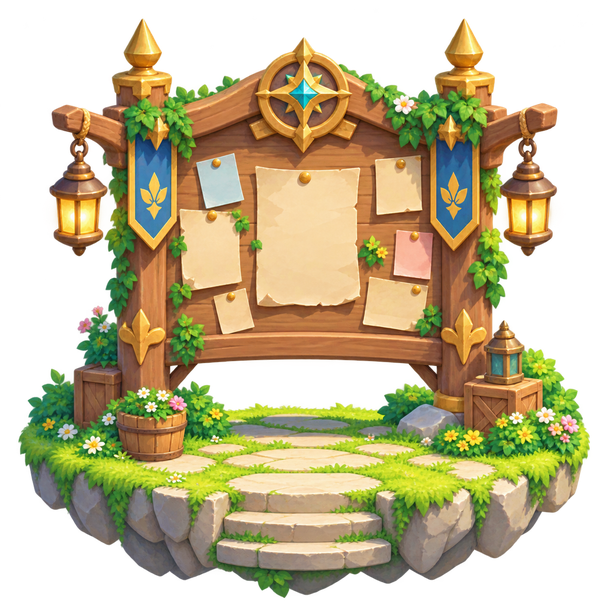
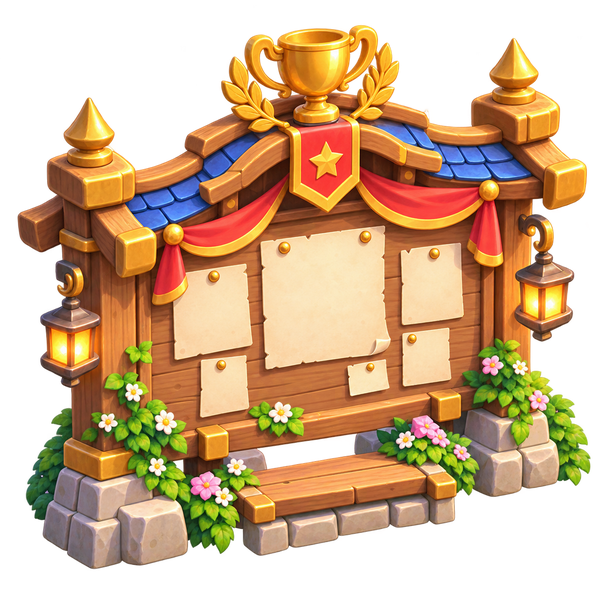
feat(lobby): GPT town assets x5 + arena/board/flag/bridge/sign/sky/cloud/tiles/cliff/waterfall/base
Claude-Session: https://claude.ai/code/session_01NXuBE3U4UAebXMPco3J5UQ

diff --git a/app/islands/lobby/LobbyWorld.tsx b/app/islands/lobby/LobbyWorld.tsx
@@ -19,6 +19,7 @@ const LOBBY_IMG = {
     grass: "/world/lobby_tile_grass.png", cliff: "/world/lobby_cliff_side.png", sky: "/world/lobby_sky.jpg",
     arena: "/world/lobby_central_arena.png", board: "/world/lobby_notice_board.png", bridge: "/world/lobby_bridge_wood.png", bridge_end_l: "/world/lobby_bridge_end_l.png", bridge_mid: "/world/lobby_bridge_mid.png", bridge_end_r: "/world/lobby_bridge_end_r.png", sign: "/world/lobby_area_sign.png",
     tile_flower: "/world/lobby_tile_flower.png", tile_stone: "/world/lobby_tile_stone.png", tile_plaza: "/world/lobby_tile_plaza.png", tile_crystal: "/world/lobby_tile_crystal.png",
+    waterfall: "/world/lobby_waterfall.png", cloud: "/world/lobby_cloud_wisp.png", flag: "/world/lobby_flag_pole.png", base: "/world/lobby_island_base.png", cobble: "/world/lobby_tile_cobble.png",
     far_a: "/world/lobby_bg_island_a.png", far_b: "/world/lobby_bg_island_b.png", far_c: "/world/lobby_bg_island_c.png",
 };
 /** エリアのテーマ（街の個性）。事業部名には固定せず、エリアの並び順で循環して割り当てる。
@@ -42,7 +43,7 @@ const THEMES: Theme[] = [
       decor: [T("/world/sm/tree_pine.png", 130, 0), T("/world/sm/tree_round.png", 130, 0.4), T("/world/sm/tree_pink.png", 140, 0.75), T("/world/sm/bush_flowers.png", 80, 0.92)], edgeDecor: [T("/world/sm/tree_pine.png", 150, 0), T("/world/sm/tree_round.png", 150, 0.5)],
       landmark: [{ src: "/world/tree_round.png", w: 360, dy: 0 }, { src: "/world/tree_pink.png", w: 220, dy: 30 }] },
     { key: "castle", label: "王都", base: "/world/terrain_highland.png", baseSize: 420, overlay: "tile_stone", overlayOpacity: 0.35, tint: "rgba(120,140,200,.10)", road: "#e8dcc4",
-      decor: [T("/world/ruin_pillar.png", 70, 0), T("/world/sm/tree_pine.png", 110, 0.4), T("/world/sm/rock.png", 70, 0.8)], edgeDecor: [T("/world/stairs_stone.png", 110, 0), T("/world/sm/tree_pine.png", 120, 0.4)],
+      decor: [T("/world/ruin_pillar.png", 70, 0), T("/world/sm/tree_pine.png", 110, 0.4), T("/world/sm/rock.png", 70, 0.8)], edgeDecor: [T("/world/lobby_flag_pole.png", 70, 0), T("/world/sm/tree_pine.png", 120, 0.45)],
       landmark: [{ src: "/world/wall_castle.png", w: 360, dy: 0 }] },
     { key: "crystal", label: "研究都市", base: "/world/terrain_ai_floor.png", baseSize: 420, overlay: "tile_crystal", overlayOpacity: 0.5, tint: "rgba(120,160,255,.12)", road: "#cfe3ff",
       decor: [T("/world/crystal_island.png", 110, 0), T("/world/ruin_pillar.png", 70, 0.5), T("/world/sm/rock.png", 60, 0.85)], edgeDecor: [T("/world/crystal_island.png", 140, 0), T("/world/sm/tree_pine.png", 110, 0.7)],
@@ -254,7 +255,7 @@ export default function LobbyWorld({ layout, islands, camCmd, focusId, onIslandT
                 {areas.map((a) => (
                     <div key={"top" + a.key}>
                         {(() => { const th = themeOf(areas.indexOf(a)); return <>
-                            <Fill d={areaL[a.key].d} w={areaL[a.key].w} h={areaL[a.key].h} ox={areaL[a.key].x} oy={areaL[a.key].y} img={th.base} size={th.baseSize} color="linear-gradient(180deg,#b9ec8f,#7ccb6a)" />
+                            <Fill d={areaL[a.key].d} w={areaL[a.key].w} h={areaL[a.key].h} ox={areaL[a.key].x} oy={areaL[a.key].y} img={(th.key === "town" || th.key === "castle") && lobbyImg.cobble ? LOBBY_IMG.cobble : th.base} size={th.baseSize} color="linear-gradient(180deg,#b9ec8f,#7ccb6a)" />
                             {th.overlay && lobbyImg[th.overlay] && <Fill d={areaL[a.key].d} w={areaL[a.key].w} h={areaL[a.key].h} ox={areaL[a.key].x} oy={areaL[a.key].y} img={LOBBY_IMG[th.overlay]} size={448} opacity={th.overlayOpacity} />}
                             <Fill d={areaL[a.key].d} w={areaL[a.key].w} h={areaL[a.key].h} ox={areaL[a.key].x} oy={areaL[a.key].y} color={th.tint} />
                             {/* 縁をわずかに暗くして立体感（内側へのビネット） */}
@@ -298,7 +299,7 @@ export default function LobbyWorld({ layout, islands, camCmd, focusId, onIslandT
                         return <img key={"bw" + a.key} src="/world/bridge_wood.png" alt="" style={{ position: "absolute", left: mx - 70, top: my - 48, width: 140, transform: `rotate(${ang}deg)`, pointerEvents: "none", filter: "drop-shadow(0 6px 6px rgba(0,0,0,.25))" }} />;
                     }
                     // 画像は 1024×337。高さ BR_H に合わせた幅：左端 409、中央タイル 225、右端 369（px → ×scale）
-                    const sc = BR_H / 337, wl = 409 * sc, wm = 225 * sc, wr = 369 * sc;
+                    const sc = BR_H / 337, wl = 222 * sc, wm = 222 * sc, wr = 222 * sc;
                     const mid = Math.max(0, len - wl - wr);
                     return (
                         <div key={"bw" + a.key} style={{ position: "absolute", left: a.bridge.from.x, top: a.bridge.from.y - BR_H * 0.58, width: len, height: BR_H, transform: `rotate(${ang}deg)`, transformOrigin: `0 ${BR_H * 0.58}px`, pointerEvents: "none", zIndex: 2, filter: "drop-shadow(0 10px 8px rgba(0,0,0,.28))" }}>
@@ -313,12 +314,12 @@ export default function LobbyWorld({ layout, islands, camCmd, focusId, onIslandT
                 {/* テーマのランドマーク（WORLD でも見える街の目印） */}
                 {areas.map((a, ai) => townFor(a, ai) ? null : themeOf(ai).landmark.map((lm, k) => { const w = lm.w * Math.min(1.5, Math.max(0.85, a.r / 650)); return <img key={"lm" + a.key + k} src={lm.src} alt="" style={{ position: "absolute", left: a.landmark.x - w / 2, top: a.landmark.y - w * 0.78 + lm.dy, width: w, zIndex: Math.round(a.landmark.y) + k, pointerEvents: "none", filter: "drop-shadow(0 8px 8px rgba(0,0,0,.25))" }} />; }))}
                 {/* 滝（崖から落ちる水：水タイル＋ぼかし） */}
-                {areas.map((a) => <div key={"wf" + a.key} style={{ position: "absolute", left: a.waterfall.p.x - 34, top: a.waterfall.p.y - 10, width: 68, height: SIDE_H + 170, backgroundImage: `url(${TERRAIN_IMG.water})`, backgroundSize: "140px 140px", borderRadius: "30% 30% 50% 50%", opacity: .85, pointerEvents: "none", zIndex: 1, WebkitMaskImage: "linear-gradient(180deg,#000 0%,#000 55%,transparent 100%)", maskImage: "linear-gradient(180deg,#000 0%,#000 55%,transparent 100%)", filter: "blur(.6px) brightness(1.15)", animation: "lbWater 1.6s linear infinite" }}><div style={{ position: "absolute", left: 4, right: 4, bottom: 24, height: 46, borderRadius: "50%", background: "radial-gradient(ellipse, rgba(255,255,255,.95), rgba(255,255,255,0) 70%)", filter: "blur(4px)" }} /></div>)}
+                {areas.map((a) => lobbyImg.waterfall ? <img key={"wf" + a.key} src={LOBBY_IMG.waterfall} alt="" style={{ position: "absolute", left: a.waterfall.p.x - 60, top: a.waterfall.p.y - 30, width: 120, pointerEvents: "none", zIndex: 1, opacity: .95 }} /> : <div key={"wf" + a.key} style={{ position: "absolute", left: a.waterfall.p.x - 34, top: a.waterfall.p.y - 10, width: 68, height: SIDE_H + 170, backgroundImage: `url(${TERRAIN_IMG.water})`, backgroundSize: "140px 140px", borderRadius: "30% 30% 50% 50%", opacity: .85, pointerEvents: "none", zIndex: 1, WebkitMaskImage: "linear-gradient(180deg,#000 0%,#000 55%,transparent 100%)", maskImage: "linear-gradient(180deg,#000 0%,#000 55%,transparent 100%)", filter: "blur(.6px) brightness(1.15)", animation: "lbWater 1.6s linear infinite" }}><div style={{ position: "absolute", left: 4, right: 4, bottom: 24, height: 46, borderRadius: "50%", background: "radial-gradient(ellipse, rgba(255,255,255,.95), rgba(255,255,255,0) 70%)", filter: "blur(4px)" }} /></div>)}
                 {/* 島のまわりの雲（軽く浮遊感） */}
-                {areas.map((a, ai) => [0, 1].map((k) => { const t = (ai * 1.7 + k * 2.4) % (Math.PI * 2); const x = a.cx + Math.cos(t) * a.r * 1.05, y = a.cy + Math.sin(t) * a.r * 0.9 + SIDE_H * 0.6; return <img key={"cl" + a.key + k} src="/world/sm/cloud_soft.png" alt="" style={{ position: "absolute", left: x - 150, top: y - 40, width: 300, opacity: .8, pointerEvents: "none", zIndex: 1, animation: `lbFloat ${7 + k * 2}s ease-in-out infinite alternate` }} />; }))}
+                {areas.map((a, ai) => [0, 1].map((k) => { const t = (ai * 1.7 + k * 2.4) % (Math.PI * 2); const x = a.cx + Math.cos(t) * a.r * 1.05, y = a.cy + Math.sin(t) * a.r * 0.9 + SIDE_H * 0.6; return <img key={"cl" + a.key + k} src={lobbyImg.cloud ? LOBBY_IMG.cloud : "/world/sm/cloud_soft.png"} alt="" style={{ position: "absolute", left: x - 190, top: y - 50, width: 380, opacity: .85, pointerEvents: "none", zIndex: 1, animation: `lbFloat ${7 + k * 2}s ease-in-out infinite alternate` }} />; }))}
                 {/* エリア看板（木の看板画像＋事業部名はコードで描く） */}
                 {areas.map((a) => (
-                    <div key={"sg" + a.key} onClick={(e) => { e.stopPropagation(); tapped.current = true; onAreaTap?.(a.key); }} style={{ position: "absolute", left: a.cx, top: a.cy - a.r * 0.9 - 10, transform: `translateX(-50%) scale(${Math.min(inv, 3.2)})`, transformOrigin: "50% 100%", zIndex: 200000, cursor: "pointer", width: lobbyImg.sign ? 260 : "auto", height: lobbyImg.sign ? 158 : "auto" }}>
+                    <div key={"sg" + a.key} onClick={(e) => { e.stopPropagation(); tapped.current = true; onAreaTap?.(a.key); }} style={{ position: "absolute", left: a.cx, top: townFor(a, areas.indexOf(a)) ? a.cy + a.r * 0.78 - a.r * 2.05 + 40 : a.cy - a.r * 0.9 - 10, transform: `translateX(-50%) scale(${Math.min(inv, 3.2)})`, transformOrigin: "50% 100%", zIndex: 200000, cursor: "pointer", width: lobbyImg.sign ? 260 : "auto", height: lobbyImg.sign ? 158 : "auto" }}>
                         {lobbyImg.sign && <img src={LOBBY_IMG.sign} alt="" style={{ position: "absolute", left: 0, top: 0, width: 260, pointerEvents: "none", filter: "drop-shadow(0 6px 6px rgba(0,0,0,.25))" }} />}
                         <div style={{ position: lobbyImg.sign ? "absolute" : "relative", left: lobbyImg.sign ? 34 : 0, right: lobbyImg.sign ? 34 : 0, top: lobbyImg.sign ? 48 : 0, textAlign: "center", padding: lobbyImg.sign ? 0 : "6px 16px", borderRadius: 12, background: lobbyImg.sign ? "transparent" : "linear-gradient(180deg,#fff,#fdf6e3)", border: lobbyImg.sign ? "none" : `2.5px solid ${a.color}`, fontSize: lobbyImg.sign ? 17 : 15, fontWeight: 900, color: lobbyImg.sign ? "#3b2410" : a.color, textShadow: lobbyImg.sign ? "0 1px 0 rgba(255,255,255,.35)" : undefined, boxShadow: lobbyImg.sign ? "none" : "0 4px 12px rgba(0,0,0,.2)", whiteSpace: "nowrap", lineHeight: 1.25 }}>
                             {a.label}<br /><span style={{ fontSize: 12, color: lobbyImg.sign ? "#6b4a2a" : "#64748b" }}>{a.count}人</span>
@@ -326,7 +327,7 @@ export default function LobbyWorld({ layout, islands, camCmd, focusId, onIslandT
                     </div>
                 ))}
                 {/* 街並み（WORLD）：テーマ画像を中心に1枚。下端中央＝エリア中心 */}
-                {areas.map((a, ai) => townFor(a, ai) ? (() => { const w = a.r * 1.7; return <img key={"town" + a.key} src={TOWN_IMG[themeOf(ai).key]!} alt="" onClick={(e) => { e.stopPropagation(); tapped.current = true; onAreaTap?.(a.key); }} style={{ position: "absolute", left: a.cx - w / 2, top: a.cy + a.r * 0.12 - w, width: w, zIndex: Math.round(a.cy) + 5, cursor: "pointer", filter: "drop-shadow(0 12px 12px rgba(0,0,0,.25))" }} />; })() : null)}
+                {areas.map((a, ai) => townFor(a, ai) ? (() => { const w = a.r * 2.05; return <img key={"town" + a.key} src={TOWN_IMG[themeOf(ai).key]!} alt="" onClick={(e) => { e.stopPropagation(); tapped.current = true; onAreaTap?.(a.key); }} style={{ position: "absolute", left: a.cx - w / 2, top: a.cy + a.r * 0.78 - w, width: w, zIndex: Math.round(a.cy) + 5, cursor: "pointer", filter: "drop-shadow(0 12px 12px rgba(0,0,0,.25))" }} />; })() : null)}
                 {/* 島 */}
                 {slots.map((sl) => {
                     const i = islands.get(sl.userId); if (!i) return null;
@@ -334,6 +335,7 @@ export default function LobbyWorld({ layout, islands, camCmd, focusId, onIslandT
                     const detail = detailFor(sl); const isFocus = focusId === sl.userId;
                     return (
                         <div key={sl.userId} onClick={(e) => tapIsland(e, sl.userId)} style={{ position: "absolute", left: sl.x, top: sl.y, width: 0, height: 0, zIndex: Math.round(sl.z) + 10, cursor: "pointer" }}>
+                            {detail && lobbyImg.base && <img src={LOBBY_IMG.base} alt="" style={{ position: "absolute", left: -175, top: -135, width: 350, pointerEvents: "none", opacity: .95 }} />}
                             {sl.isLeader && <img src={TERRAIN_IMG.plaza} alt="" style={{ position: "absolute", left: -170, top: -120, width: 340, pointerEvents: "none", opacity: .85 }} />}
                             {isFocus && <div style={{ position: "absolute", left: -150, top: -60, width: 300, height: 110, borderRadius: "50%", border: "4px solid #fbbf24", boxShadow: "0 0 24px #fbbf24, inset 0 0 24px rgba(251,191,36,.5)", pointerEvents: "none" }} />}
                             {detail ? (
